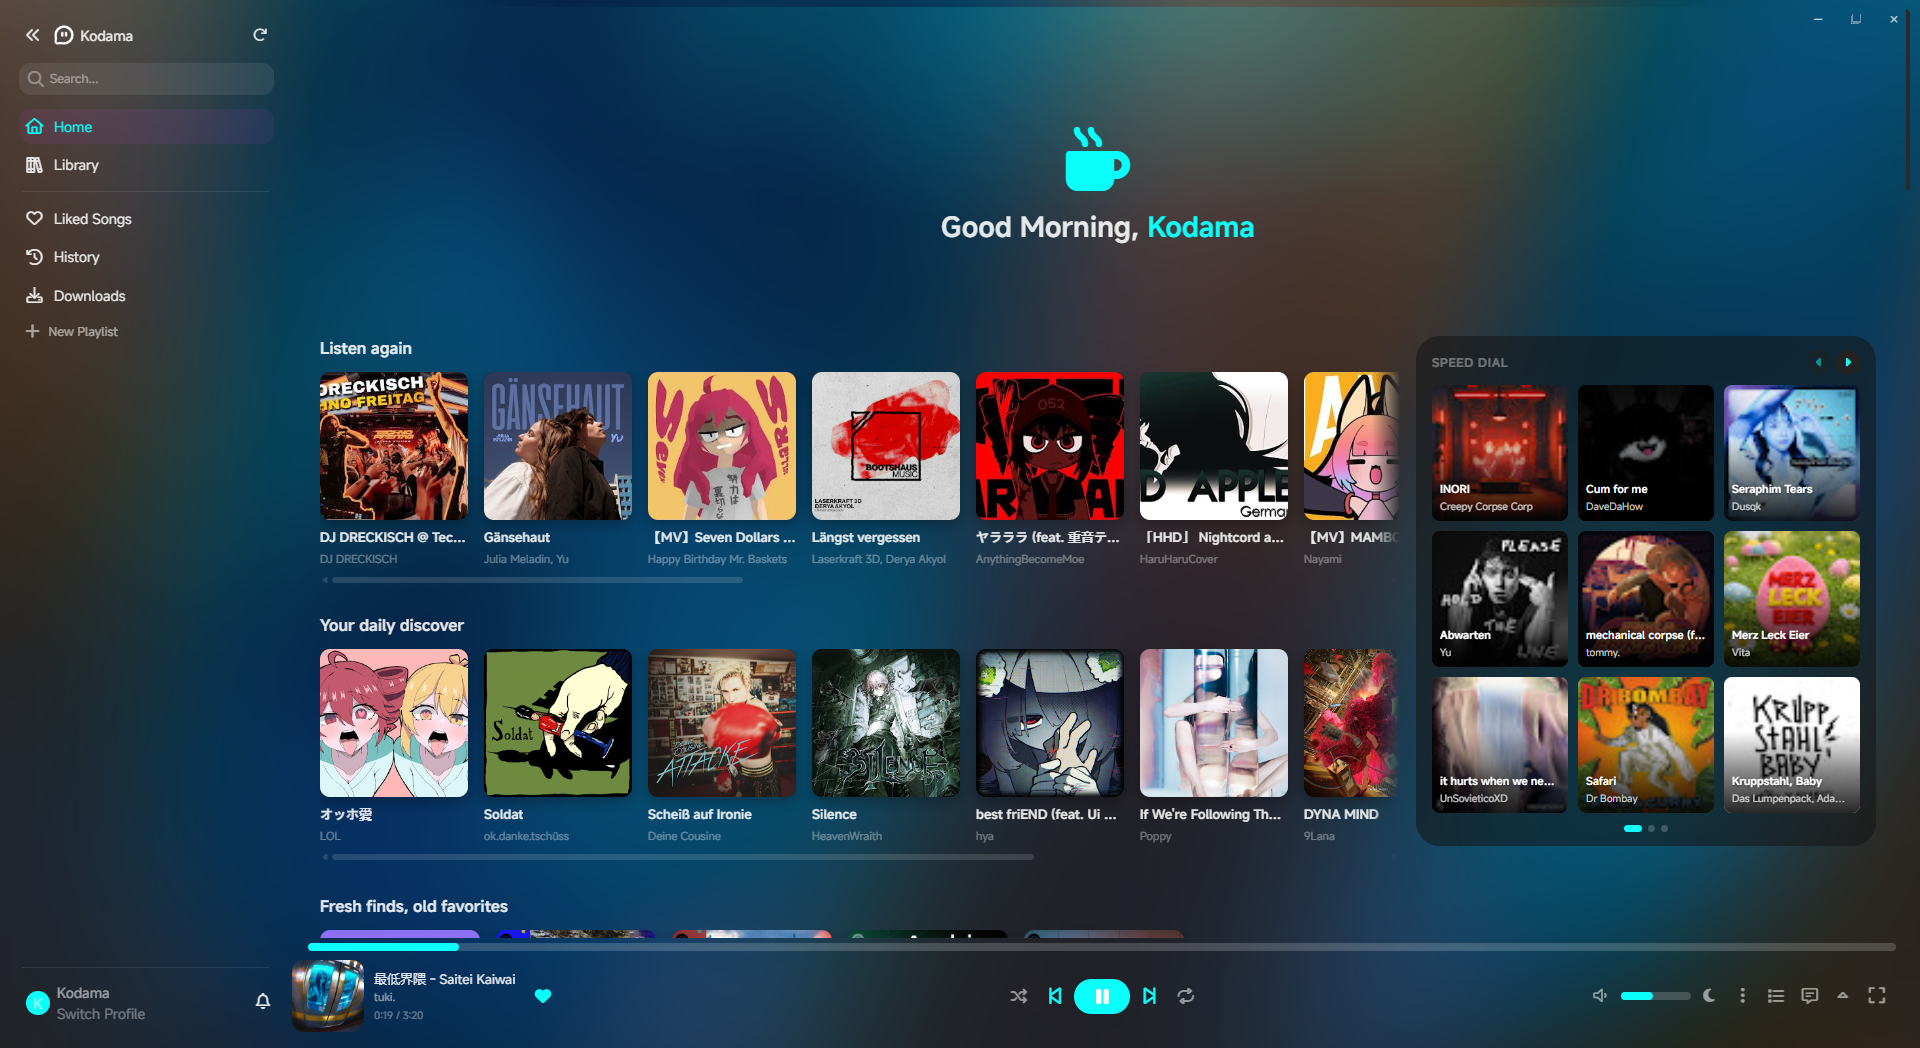
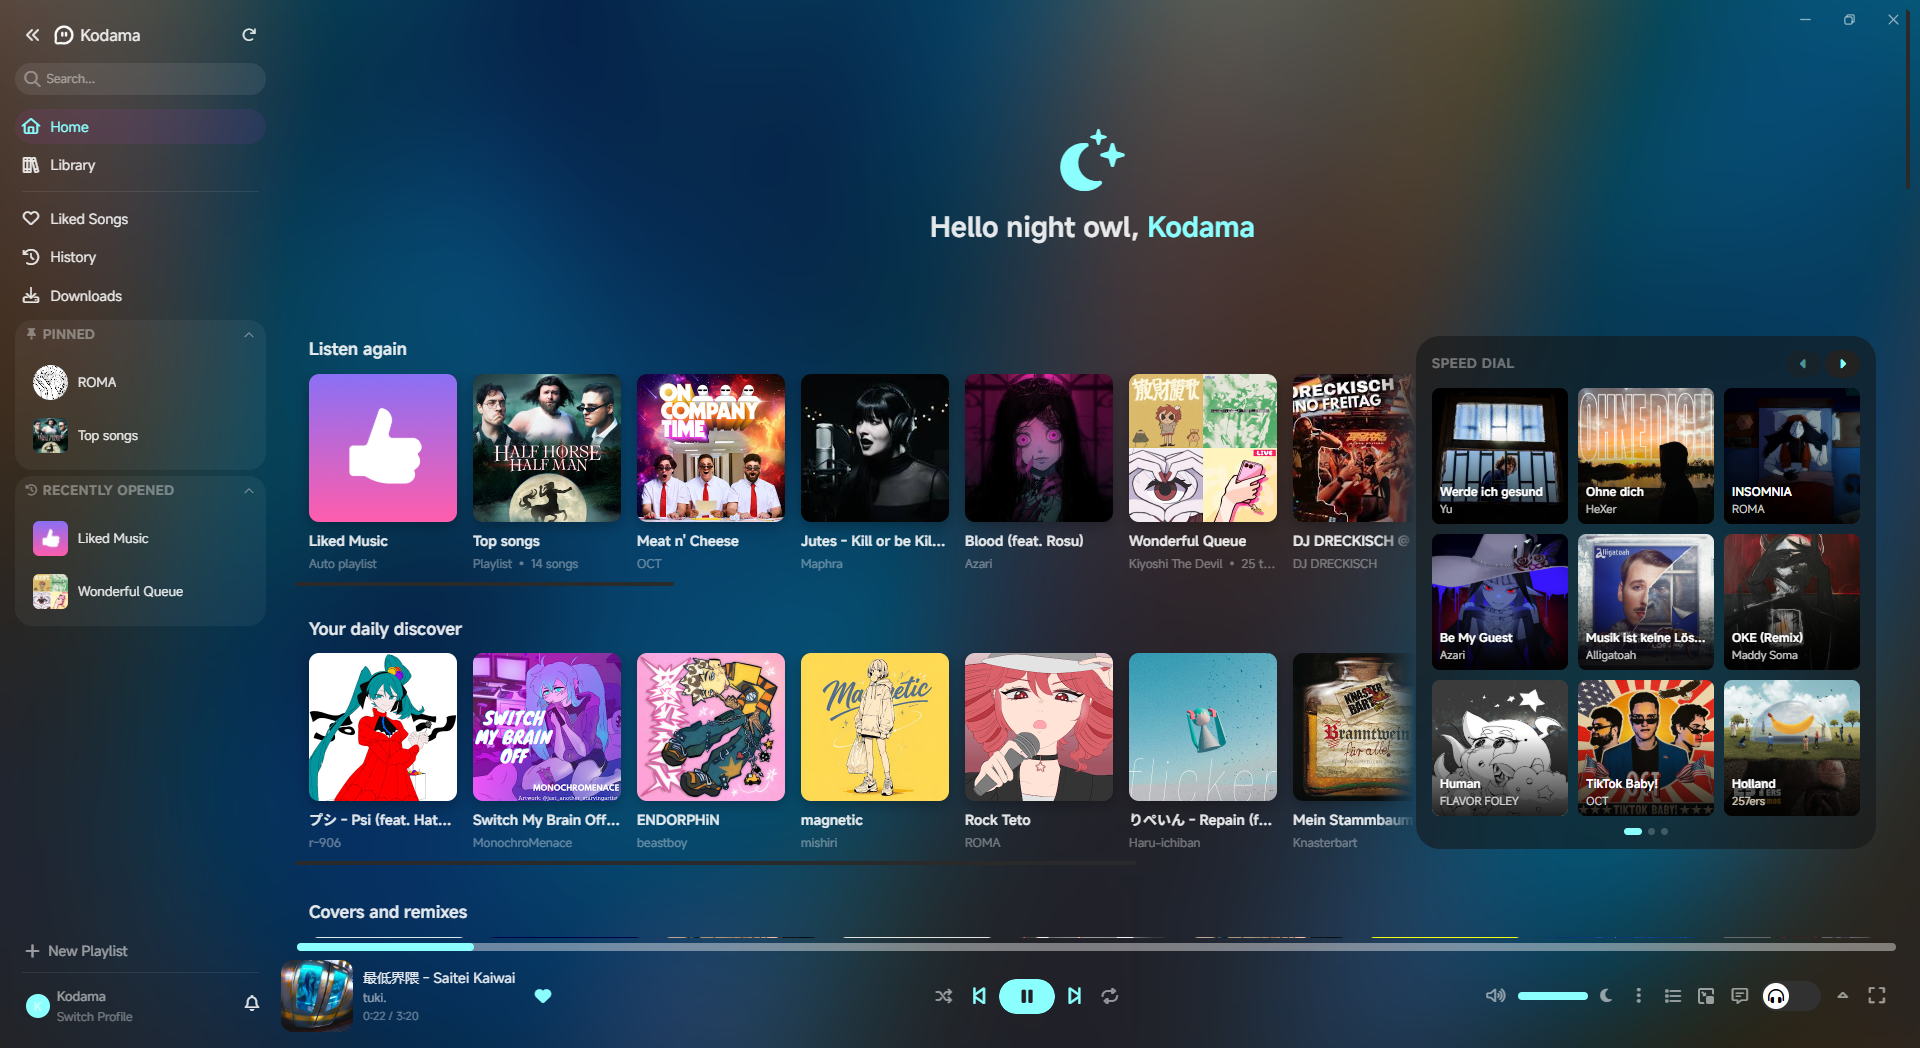
docs: new hero screenshot, served as WebP
The landing page's home view was from July. Replaced with a current one,
same 1920x1048 so nothing about the layout moves.

It also goes out as WebP now: 204 KB against the PNG's 1.5 MB, which is
86% off the heaviest thing on the page. Checked at 3x magnification on
the sidebar labels, where lossy compression would show first, and the
two are indistinguishable. The PNG stays as the fallback in a <picture>,
so only browsers that need it fetch it.

diff --git a/docs/index.html b/docs/index.html
@@ -33,7 +33,12 @@
     <div class="hero">
       <p class="tagline">A desktop player for <b>YouTube Music</b><br>Synced lyrics, personalization, and more.</p>
       <div class="device">
-        <img class="shot" src="shots/home.png" alt="Kodama — Home view" loading="eager">
+        <!-- WebP first (204 KB against the PNG's 1.5 MB, indistinguishable at 3x on the
+             sidebar text), PNG kept as the fallback. -->
+        <picture>
+          <source srcset="shots/home.webp" type="image/webp">
+          <img class="shot" src="shots/home.png" alt="Kodama — Home view" width="1920" height="1048" loading="eager">
+        </picture>
       </div>
     </div>
   </div>
